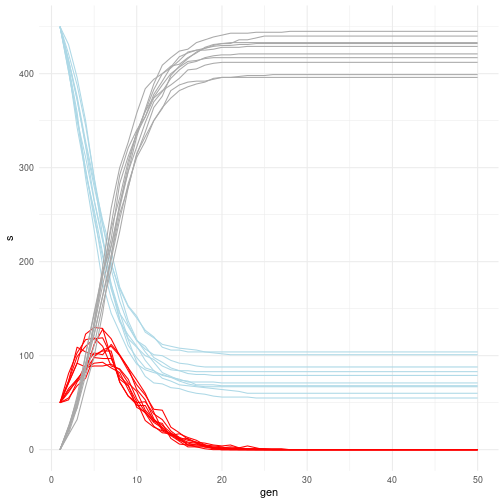
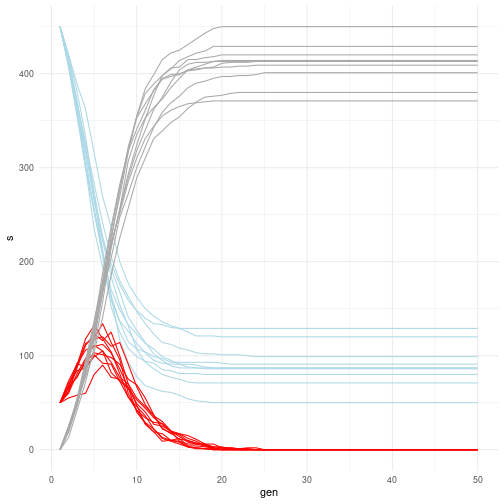
deploy: 136e43cb5954b7f171d49306c79d2fe8df85be14

Changed region(s): [[0.119, 0.0595, 0.9524, 0.8929], [0.119, 0.8333, 0.1488, 0.8631]]

diff --git a/_presentation/TD2.html b/_presentation/TD2.html
@@ -32,7 +32,7 @@ We denote by `\(X_k\)` the position at time `\(t_k\)` et `\(V_k\)` the velocity.
   
 ## Auto regressive Model on `\(\mathbb{R}^2\)` - Central place behaviour
 
-`$$X_{k+1} =\mu +  \rho (X_k - \mu)  + \varepsilon_{k+1}, \quad (\varepsilon_{k}) \overset{i.i.d}{\sim}\mathcal{N}(0,\sigma^2)$$`
+`$$X_{k+1} =\mu -  \rho (X_k - \mu)  + \varepsilon_{k+1}, \quad (\varepsilon_{k}) \overset{i.i.d}{\sim}\mathcal{N}(0,\sigma^2)$$`
   
 ## Integrated Random walk 
   
